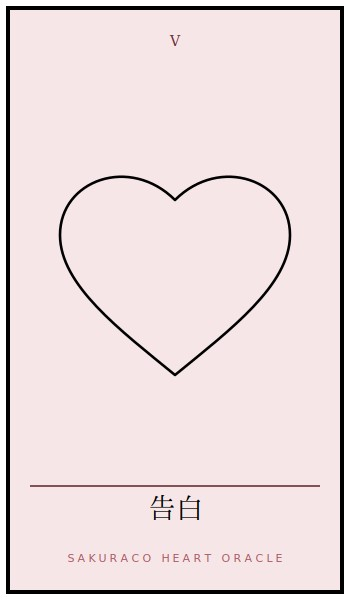
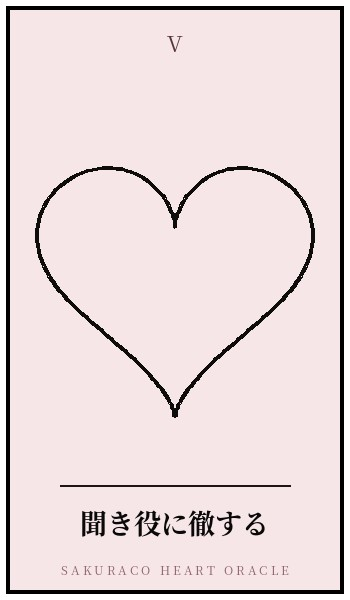
Heart Oracleを29枚に全面改訂：恋愛の物語系→今どう接するべきかの行動指針カードに路線変更（駆け引き系・謝る系を追加）

diff --git a/heart_oracle_cards.js b/heart_oracle_cards.js
@@ -1,1 +1,1 @@
-const HEART_ORACLE_CARDS = [{"id": "h01", "name_en": "", "name_jp": "出会いの予感", "deck": "heart_oracle", "keywords": ["予感", "新しい縁", "きっかけ"], "meaning": "新しい出会いの気配を感じるとき。まだ形になっていないけれど、何かが動き始めています。", "love": "出会いのチャンスが近づいているサイン。日常の中にヒントがあります。", "timing_term": "近い・1ヶ月以内", "timing_feature": "突然の出会い", "timing_place": "新しい環境や紹介の場", "img": "images_heart_oracle/h01.jpg"}, {"id": "h02", "name_en": "", "name_jp": "ときめき", "deck": "heart_oracle", "keywords": ["高揚感", "好意", "心の動き"], "meaning": "誰かに心惹かれ、胸が高鳴る瞬間。自分でも気づかなかった気持ちに気づくとき。", "love": "好きという気持ちが芽生え始めている、初々しい段階。", "timing_term": "数週間以内", "timing_feature": "気持ちが高まっていく", "timing_place": "共通の趣味や集まりの場", "img": "images_heart_oracle/h02.jpg"}, {"id": "h03", "name_en": "", "name_jp": "片思い", "deck": "heart_oracle", "keywords": ["秘めた想い", "切なさ", "見守る"], "meaning": "相手に気持ちを伝えられずにいる、静かな想い。", "love": "片思い中の複雑な気持ちを表すカード。焦らず育てる時期です。", "timing_term": "数ヶ月単位", "timing_feature": "じっくり育つ想い", "timing_place": "日常的に顔を合わせる場", "img": "images_heart_oracle/h03.jpg"}, {"id": "h04", "name_en": "", "name_jp": "迷い", "deck": "heart_oracle", "keywords": ["決断できない", "揺れる心", "選択"], "meaning": "気持ちが定まらず、揺れ動いている状態。", "love": "進むか退くか、決めきれない恋の局面。", "timing_term": "数週間〜数ヶ月", "timing_feature": "はっきりしない時期", "timing_place": "一人の時間の中で", "img": "images_heart_oracle/h04.jpg"}, {"id": "h05", "name_en": "", "name_jp": "告白", "deck": "heart_oracle", "keywords": ["勇気", "伝える", "決意"], "meaning": "気持ちを言葉にして伝える、勇気の瞬間。", "love": "告白のタイミングが近づいている、または背中を押されるとき。", "timing_term": "近い・数週間以内", "timing_feature": "勢いのある展開", "timing_place": "二人きりの場面", "img": "images_heart_oracle/h05.jpg"}, {"id": "h06", "name_en": "", "name_jp": "両想い", "deck": "heart_oracle", "keywords": ["通じ合う心", "幸福", "始まり"], "meaning": "お互いの気持ちが重なり合う、幸せな瞬間。", "love": "両想いの兆し、または実感できる嬉しい時期。", "timing_term": "近い・1ヶ月前後", "timing_feature": "嬉しい進展", "timing_place": "デートの場で", "img": "images_heart_oracle/h06.jpg"}, {"id": "h07", "name_en": "", "name_jp": "愛の深まり", "deck": "heart_oracle", "keywords": ["絆", "信頼", "育つ愛"], "meaning": "関係が少しずつ深まり、信頼が育っていく時期。", "love": "二人の関係がより親密に、安定していく段階。", "timing_term": "数ヶ月単位", "timing_feature": "ゆっくり深まる", "timing_place": "日常を共にする中で", "img": "images_heart_oracle/h07.jpg"}, {"id": "h08", "name_en": "", "name_jp": "すれ違い", "deck": "heart_oracle", "keywords": ["誤解", "距離", "ズレ"], "meaning": "気持ちがうまく噛み合わず、距離を感じる状態。", "love": "ちょっとしたズレが気になる時期。話し合いが鍵になります。", "timing_term": "数週間", "timing_feature": "一時的な停滞", "timing_place": "連絡のやり取りの中で", "img": "images_heart_oracle/h08.jpg"}, {"id": "h09", "name_en": "", "name_jp": "嫉妬", "deck": "heart_oracle", "keywords": ["不安", "独占欲", "比較"], "meaning": "相手を想うあまり、心がざわつく状態。", "love": "嫉妬や不安を感じやすい、心が揺れる時期。", "timing_term": "短期間", "timing_feature": "感情が高ぶる", "timing_place": "相手の周辺関係の中で", "img": "images_heart_oracle/h09.jpg"}, {"id": "h10", "name_en": "", "name_jp": "沈黙", "deck": "heart_oracle", "keywords": ["言葉にできない", "間", "静けさ"], "meaning": "言葉より、沈黙の方が雄弁なときもあります。", "love": "あえて何も言わない選択をしている時期。", "timing_term": "不明瞭・様子見", "timing_feature": "動きの少ない時期", "timing_place": "二人の間で", "img": "images_heart_oracle/h10.jpg"}, {"id": "h11", "name_en": "", "name_jp": "涙", "deck": "heart_oracle", "keywords": ["悲しみ", "解放", "浄化"], "meaning": "涙とともに、心の重荷が流れていく。", "love": "悲しみを経験しながらも、癒しに向かっている時期。", "timing_term": "短期集中", "timing_feature": "感情の解放", "timing_place": "一人の時間に", "img": "images_heart_oracle/h11.jpg"}, {"id": "h12", "name_en": "", "name_jp": "別れ", "deck": "heart_oracle", "keywords": ["終わり", "区切り", "手放す"], "meaning": "一つの関係に区切りがつく、大きな転換点。", "love": "別れという形での終わり、または覚悟を決める時期。", "timing_term": "大きな節目", "timing_feature": "突然または覚悟の末に", "timing_place": "直接顔を合わせる場で", "img": "images_heart_oracle/h12.jpg"}, {"id": "h13", "name_en": "", "name_jp": "未練", "deck": "heart_oracle", "keywords": ["執着", "思い出", "離れられない"], "meaning": "過去の関係に、まだ心が残っている状態。", "love": "過去の相手への未練が、今の気持ちに影響している時期。", "timing_term": "長引きやすい", "timing_feature": "ゆっくり薄れていく", "timing_place": "ふとした瞬間に思い出す", "img": "images_heart_oracle/h13.jpg"}, {"id": "h14", "name_en": "", "name_jp": "手放す勇気", "deck": "heart_oracle", "keywords": ["決断", "解放", "前進"], "meaning": "執着を手放し、次に進む決意をするとき。", "love": "過去を手放し、新しい気持ちで前を向ける時期。", "timing_term": "決意の瞬間", "timing_feature": "数週間で心が軽くなる", "timing_place": "一人静かな時間に", "img": "images_heart_oracle/h14.jpg"}, {"id": "h15", "name_en": "", "name_jp": "癒し", "deck": "heart_oracle", "keywords": ["回復", "安らぎ", "自分を労わる"], "meaning": "傷ついた心が、少しずつ癒えていく時期。", "love": "恋の傷を癒し、穏やかさを取り戻していく段階。", "timing_term": "ゆっくり・数ヶ月", "timing_feature": "少しずつ回復", "timing_place": "自分だけの時間の中で", "img": "images_heart_oracle/h15.jpg"}, {"id": "h16", "name_en": "", "name_jp": "自分を愛する", "deck": "heart_oracle", "keywords": ["セルフラブ", "自信", "満たされる"], "meaning": "誰かに求めるより先に、自分自身を大切にするとき。", "love": "自分を満たすことで、恋愛にも良い流れが生まれる時期。", "timing_term": "今この瞬間から", "timing_feature": "じわじわ効果が出る", "timing_place": "一人の時間や自分磨きの中で", "img": "images_heart_oracle/h16.jpg"}, {"id": "h17", "name_en": "", "name_jp": "新しい風", "deck": "heart_oracle", "keywords": ["変化", "新展開", "予感"], "meaning": "停滞していた状況に、新しい風が吹き込む。", "love": "新しい出会いや展開の気配。環境の変化が鍵になります。", "timing_term": "近い・1〜2ヶ月", "timing_feature": "急な変化", "timing_place": "新しい環境や場所で", "img": "images_heart_oracle/h17.jpg"}, {"id": "h18", "name_en": "", "name_jp": "再会", "deck": "heart_oracle", "keywords": ["巡り合わせ", "懐かしさ", "縁"], "meaning": "過去に縁のあった人と、再び巡り合う。", "love": "過去の相手との再会、または懐かしい縁がつながる時期。", "timing_term": "予想外のタイミング", "timing_feature": "突然訪れる", "timing_place": "共通の知人や思い出の場所で", "img": "images_heart_oracle/h18.jpg"}, {"id": "h19", "name_en": "", "name_jp": "復縁", "deck": "heart_oracle", "keywords": ["やり直し", "再スタート", "和解"], "meaning": "一度離れた関係が、もう一度動き出す。", "love": "復縁の可能性が高まっている、または話し合いのタイミング。", "timing_term": "数ヶ月単位", "timing_feature": "ゆっくり歩み寄る", "timing_place": "二人だけの再会の場で", "img": "images_heart_oracle/h19.jpg"}, {"id": "h20", "name_en": "", "name_jp": "信頼", "deck": "heart_oracle", "keywords": ["安心", "誠実", "積み重ね"], "meaning": "積み重ねてきた時間が、確かな信頼に変わる。", "love": "信頼関係が深まり、安心して向き合える時期。", "timing_term": "長期的に築かれる", "timing_feature": "着実に積み重なる", "timing_place": "日々のやり取りの中で", "img": "images_heart_oracle/h20.jpg"}, {"id": "h21", "name_en": "", "name_jp": "絆", "deck": "heart_oracle", "keywords": ["つながり", "支え合い", "一体感"], "meaning": "言葉にしなくても通じ合う、強いつながり。", "love": "かけがえのない絆を感じられる、満たされた時期。", "timing_term": "継続的・安定", "timing_feature": "静かに深まり続ける", "timing_place": "共に過ごす日常の中で", "img": "images_heart_oracle/h21.jpg"}, {"id": "h22", "name_en": "", "name_jp": "永遠の約束", "deck": "heart_oracle", "keywords": ["誓い", "結婚", "成就"], "meaning": "二人の未来を誓い合う、大きな成就の瞬間。", "love": "結婚や将来の約束など、恋愛の一つの完成形を示すカード。", "timing_term": "大きな節目・数ヶ月〜1年", "timing_feature": "特別な日に", "timing_place": "二人にとって特別な場所で", "img": "images_heart_oracle/h22.jpg"}];
+const HEART_ORACLE_CARDS = [{"id": "h01", "name_en": "", "name_jp": "見守る", "deck": "heart_oracle", "keywords": ["静けさ", "信頼", "見守る"], "meaning": "今は無理に動かず、相手のペースを尊重しながらそっと見守る時期。焦って踏み込むより、そばで支える姿勢が伝わるとき。", "love": "連絡の頻度を相手に合わせ、急かさずに構えて。「いつでもここにいるよ」という空気感を大切に。", "timing_term": "数週間〜数ヶ月", "timing_feature": "静かに信頼を積み重ねる時期", "timing_place": "日常のやり取りの中で", "img": "images_heart_oracle/h01.jpg"}, {"id": "h02", "name_en": "", "name_jp": "自分から動く", "deck": "heart_oracle", "keywords": ["行動", "勇気", "きっかけ"], "meaning": "待っているだけでは何も変わらない。今は自分から一歩踏み出すことで、流れが動き出すとき。", "love": "連絡や誘いは待たずにこちらから。小さな行動が次の展開のきっかけになります。", "timing_term": "近い・1〜2週間以内", "timing_feature": "動いた分だけ反応が返ってくる", "timing_place": "LINEやメッセージのやり取りで", "img": "images_heart_oracle/h02.jpg"}, {"id": "h03", "name_en": "", "name_jp": "距離を置く", "deck": "heart_oracle", "keywords": ["余白", "冷静さ", "間"], "meaning": "近づきすぎた気持ちに、少し余白をつくる時期。距離を置くことでお互いに冷静さを取り戻せます。", "love": "連絡の頻度を少し落とし、自分の時間を優先してみて。焦らず様子を見る余裕を持って。", "timing_term": "数週間程度", "timing_feature": "一時的なクールダウン", "timing_place": "一人の時間の中で", "img": "images_heart_oracle/h03.jpg"}, {"id": "h04", "name_en": "", "name_jp": "素直に伝える", "deck": "heart_oracle", "keywords": ["正直さ", "言葉", "誠実"], "meaning": "駆け引きより、素直な言葉が一番届くとき。飾らない気持ちが相手の心に真っ直ぐ届きます。", "love": "「嬉しい」「寂しい」など、今感じていることをそのまま言葉にして伝えてみて。", "timing_term": "近い・数日〜数週間以内", "timing_feature": "素直さが伝わりやすい流れ", "timing_place": "二人で話せる場面で", "img": "images_heart_oracle/h04.jpg"}, {"id": "h05", "name_en": "", "name_jp": "聞き役に徹する", "deck": "heart_oracle", "keywords": ["傾聴", "受け止める", "余裕"], "meaning": "自分の気持ちを話すより、まず相手の話にしっかり耳を傾けるべきとき。", "love": "相手の話を遮らず、最後まで聞いて。共感の相槌ひとつで距離がぐっと縮まります。", "timing_term": "数日〜数週間", "timing_feature": "相手が心を開き始める", "timing_place": "ゆっくり話せる時間の中で", "img": "images_heart_oracle/h05.jpg"}, {"id": "h06", "name_en": "", "name_jp": "笑顔で接する", "deck": "heart_oracle", "keywords": ["明るさ", "安心感", "雰囲気"], "meaning": "深刻にならず、明るい笑顔で接することが今の二人には必要。空気が軽くなることで関係もほぐれていきます。", "love": "会うときは笑顔を意識して。ちょっとした冗談や軽やかな会話が距離を縮めます。", "timing_term": "すぐに・日常の中で", "timing_feature": "空気が軽くなる", "timing_place": "会って話す場で", "img": "images_heart_oracle/h06.jpg"}, {"id": "h07", "name_en": "", "name_jp": "誘ってみる", "deck": "heart_oracle", "keywords": ["誘い", "積極性", "チャンス"], "meaning": "迷っている時間がもったいないほど、良い流れが来ているとき。思い切って誘うことで進展します。", "love": "食事やお出かけなど、具体的な予定を提案してみて。断られる不安より動いた先の結果を大切に。", "timing_term": "近い・1〜2週間以内", "timing_feature": "誘えば応じてもらいやすい", "timing_place": "メッセージまたは直接", "img": "images_heart_oracle/h07.jpg"}, {"id": "h08", "name_en": "", "name_jp": "慎重に進める", "deck": "heart_oracle", "keywords": ["丁寧さ", "確認", "歩み"], "meaning": "勢いだけで進めず、一歩ずつ相手の気持ちを確かめながら進むべきとき。", "love": "大きな決断や告白は少し待って、まず小さな約束や積み重ねを大事にして。", "timing_term": "数ヶ月単位", "timing_feature": "ゆっくり着実に進む", "timing_place": "日々の関わりの中で", "img": "images_heart_oracle/h08.jpg"}, {"id": "h09", "name_en": "", "name_jp": "思い切って告白する", "deck": "heart_oracle", "keywords": ["決断", "勇気", "気持ち"], "meaning": "気持ちを胸に秘めている段階を越え、言葉にして伝える決断のとき。", "love": "タイミングを計りすぎず、素直な気持ちをまっすぐ伝えてみて。", "timing_term": "近い・数週間以内", "timing_feature": "勢いのある展開に", "timing_place": "二人きりの場面で", "img": "images_heart_oracle/h09.jpg"}, {"id": "h10", "name_en": "", "name_jp": "謝る勇気を持つ", "deck": "heart_oracle", "keywords": ["素直さ", "反省", "歩み寄り"], "meaning": "意地を張らず、素直に「ごめんね」と伝えることで関係がほぐれていくとき。", "love": "言い訳をせず、まず謝ることから始めて。相手の気持ちを認める姿勢が大切です。", "timing_term": "できるだけ早く", "timing_feature": "早いほど関係が回復しやすい", "timing_place": "落ち着いて話せる場で", "img": "images_heart_oracle/h10.jpg"}, {"id": "h11", "name_en": "", "name_jp": "頼ってみる", "deck": "heart_oracle", "keywords": ["弱さ", "信頼", "甘え"], "meaning": "一人で抱え込まず、相手に頼ってみることで心の距離が縮まるとき。", "love": "「助けてほしい」「相談したい」と素直に伝えてみて。頼られることは相手にとっても嬉しいことです。", "timing_term": "数日〜数週間", "timing_feature": "頼るほど距離が縮む", "timing_place": "困りごとを共有できる場面で", "img": "images_heart_oracle/h11.jpg"}, {"id": "h12", "name_en": "", "name_jp": "任せてみる", "deck": "heart_oracle", "keywords": ["信頼", "委ねる", "余裕"], "meaning": "自分でコントロールしようとせず、相手のペースや判断に委ねてみるとき。", "love": "予定や決め事を相手に任せてみて。「あなたに任せるね」の一言が信頼を伝えます。", "timing_term": "数週間〜数ヶ月", "timing_feature": "相手が主導権を持つ流れ", "timing_place": "二人で決める場面で", "img": "images_heart_oracle/h12.jpg"}, {"id": "h13", "name_en": "", "name_jp": "褒め言葉を伝える", "deck": "heart_oracle", "keywords": ["承認", "言葉", "好意"], "meaning": "相手の良いところを見つけて、素直に言葉にして伝えるべきとき。", "love": "些細なことでも「すごいね」「素敵だね」と口に出してみて。承認の言葉が好意のサインになります。", "timing_term": "すぐに・日常の中で", "timing_feature": "言葉にした分だけ好印象に", "timing_place": "会話の中で自然に", "img": "images_heart_oracle/h13.jpg"}, {"id": "h14", "name_en": "", "name_jp": "感謝を伝える", "deck": "heart_oracle", "keywords": ["ありがとう", "誠実", "積み重ね"], "meaning": "当たり前になっていることほど、「ありがとう」を言葉にすることが大切なとき。", "love": "小さなことでも感謝を言葉にして伝えて。積み重ねが信頼関係を深めます。", "timing_term": "すぐに・日常の中で", "timing_feature": "積み重ねが信頼に変わる", "timing_place": "日々のやり取りの中で", "img": "images_heart_oracle/h14.jpg"}, {"id": "h15", "name_en": "", "name_jp": "変化を見せる", "deck": "heart_oracle", "keywords": ["イメチェン", "新鮮さ", "刺激"], "meaning": "停滞している雰囲気に、新しい一面や変化を見せることで刺激を与えるとき。", "love": "髪型やファッション、雰囲気を少し変えてみて。新鮮さが相手の関心を引き戻します。", "timing_term": "近い・1ヶ月以内", "timing_feature": "変化が反応を生む", "timing_place": "次に会うタイミングで", "img": "images_heart_oracle/h15.jpg"}, {"id": "h16", "name_en": "", "name_jp": "二人の時間をつくる", "deck": "heart_oracle", "keywords": ["共有", "体験", "絆"], "meaning": "言葉より、共に過ごす時間そのものが二人の距離を縮めるとき。", "love": "食事や趣味など、共通の体験を意識して予定を組んでみて。", "timing_term": "近い・1〜2週間以内", "timing_feature": "共有体験が絆を深める", "timing_place": "二人で過ごす時間の中で", "img": "images_heart_oracle/h16.jpg"}, {"id": "h17", "name_en": "", "name_jp": "一歩引いてみる", "deck": "heart_oracle", "keywords": ["抑制", "様子見", "冷静"], "meaning": "気持ちが先走りそうなときは、あえて一歩引いて様子を見るべきとき。", "love": "すぐに反応せず、少し間を置いてから返信や行動をして。冷静さが良い距離感を保ちます。", "timing_term": "数日〜数週間", "timing_feature": "抑えた分だけ関係が安定", "timing_place": "連絡のやり取りの中で", "img": "images_heart_oracle/h17.jpg"}, {"id": "h18", "name_en": "", "name_jp": "正直に話し合う", "deck": "heart_oracle", "keywords": ["対話", "率直さ", "解決"], "meaning": "ごまかしたり我慢したりせず、率直に気持ちを話し合うべきとき。", "love": "不満やモヤモヤを溜め込まず、落ち着いたタイミングで正直に伝えて。", "timing_term": "できるだけ早く", "timing_feature": "話し合うほどすれ違いが解消", "timing_place": "二人だけで話せる場で", "img": "images_heart_oracle/h18.jpg"}, {"id": "h19", "name_en": "", "name_jp": "信じて待つ", "deck": "heart_oracle", "keywords": ["信頼", "忍耐", "安心"], "meaning": "今は動くより、相手を信じてじっくり待つべき時期。", "love": "不安になっても連絡を急かさず、相手のタイミングを信じて構えて。", "timing_term": "数ヶ月単位", "timing_feature": "待つほど関係が安定", "timing_place": "日常の中で自然に", "img": "images_heart_oracle/h19.jpg"}, {"id": "h20", "name_en": "", "name_jp": "そっと寄り添う", "deck": "heart_oracle", "keywords": ["寄り添い", "静けさ", "支え"], "meaning": "言葉で励ますより、ただそばにいることが今の相手には必要なとき。", "love": "無理に元気づけようとせず、静かにそばにいて。存在そのものが支えになります。", "timing_term": "すぐに・今この時期", "timing_feature": "静かな支えが伝わる", "timing_place": "そばにいられる場面で", "img": "images_heart_oracle/h20.jpg"}, {"id": "h21", "name_en": "", "name_jp": "手放す勇気を持つ", "deck": "heart_oracle", "keywords": ["決断", "解放", "前進"], "meaning": "執着や過去の関係に区切りをつけ、次に進む決断をするとき。", "love": "未練を断ち切る行動を取って。連絡先の整理や気持ちの区切りをつける時間を持ちましょう。", "timing_term": "決意の瞬間から数週間", "timing_feature": "手放した分だけ心が軽くなる", "timing_place": "一人静かな時間に", "img": "images_heart_oracle/h21.jpg"}, {"id": "h22", "name_en": "", "name_jp": "自分を大切にする", "deck": "heart_oracle", "keywords": ["セルフラブ", "自信", "満たす"], "meaning": "相手に求める前に、まず自分自身を満たし大切にするべきとき。", "love": "自分磨きや一人の時間を優先して。満たされた自分でいることが良い縁を引き寄せます。", "timing_term": "今この瞬間から", "timing_feature": "じわじわ良い流れに変わる", "timing_place": "自分だけの時間の中で", "img": "images_heart_oracle/h22.jpg"}, {"id": "h23", "name_en": "", "name_jp": "じらしてみる", "deck": "heart_oracle", "keywords": ["駆け引き", "焦らし", "余韻"], "meaning": "すぐに応じず、少し焦らすことで相手の気持ちを引き寄せる駆け引きの時期。", "love": "返信を少し間隔をあけてみる、誘いにすぐ乗らないなど、あえて余韻を残す行動を。", "timing_term": "数日〜1週間程度", "timing_feature": "焦らすほど関心が高まる", "timing_place": "メッセージのやり取りで", "img": "images_heart_oracle/h23.jpg"}, {"id": "h24", "name_en": "", "name_jp": "素っ気なくしてみる", "deck": "heart_oracle", "keywords": ["駆け引き", "主導権", "余裕"], "meaning": "追いかけるより、少し素っ気なく振る舞うことで相手が追う側に回る時期。", "love": "過度な連絡や気遣いを控えめにし、自分のペースを優先する余裕を見せて。", "timing_term": "数週間程度", "timing_feature": "相手の関心が高まりやすい", "timing_place": "普段のやり取りの中で", "img": "images_heart_oracle/h24.jpg"}, {"id": "h25", "name_en": "", "name_jp": "それとなく匂わせる", "deck": "heart_oracle", "keywords": ["駆け引き", "暗示", "さりげなさ"], "meaning": "はっきり言葉にせず、それとなく気持ちをほのめかすことが効果的なとき。", "love": "直接的な告白ではなく、態度や会話の端々で好意をさりげなく感じさせて。", "timing_term": "数週間単位", "timing_feature": "じわじわ伝わっていく", "timing_place": "何気ない会話の中で", "img": "images_heart_oracle/h25.jpg"}, {"id": "h26", "name_en": "", "name_jp": "主導権を握る", "deck": "heart_oracle", "keywords": ["駆け引き", "リード", "自信"], "meaning": "相手に流されるのではなく、自分から流れをリードしていくべきとき。", "love": "予定を提案する、会話の話題を作るなど、自信を持って関係をリードしてみて。", "timing_term": "近い・1〜2週間以内", "timing_feature": "リードした分だけ流れが動く", "timing_place": "デートや会話の場面で", "img": "images_heart_oracle/h26.jpg"}, {"id": "h27", "name_en": "", "name_jp": "嫉妬心をくすぐる", "deck": "heart_oracle", "keywords": ["駆け引き", "嫉妬", "刺激"], "meaning": "少し刺激を与えることで、相手が自分の気持ちに気づく後押しになるとき。", "love": "他の予定や交友関係を軽く話題にしてみて。やりすぎず、さりげない程度に留めるのがポイントです。", "timing_term": "数日〜1週間程度", "timing_feature": "相手の気持ちが動きやすい", "timing_place": "何気ない会話の中で", "img": "images_heart_oracle/h27.jpg"}, {"id": "h28", "name_en": "", "name_jp": "行動で示して謝る", "deck": "heart_oracle", "keywords": ["誠意", "行動", "信頼回復"], "meaning": "言葉での謝罪だけでなく、行動や態度で誠意を示すべきとき。", "love": "謝罪の言葉に加えて、約束を守る・態度を改めるなど具体的な行動で示して。", "timing_term": "できるだけ早く、継続的に", "timing_feature": "行動が伴うほど信頼が回復", "timing_place": "日々の関わりの中で", "img": "images_heart_oracle/h28.jpg"}, {"id": "h29", "name_en": "", "name_jp": "タイミングを待って謝る", "deck": "heart_oracle", "keywords": ["間合い", "冷静さ", "誠実"], "meaning": "すぐに謝るより、相手の気持ちが落ち着くのを待ってから謝罪するべきとき。", "love": "感情的になっている間は無理に話しかけず、落ち着いたタイミングを見計らって謝って。", "timing_term": "数日〜1週間程度", "timing_feature": "間を置くことで受け入れられやすい", "timing_place": "落ち着いて話せる場で", "img": "images_heart_oracle/h29.jpg"}];

diff --git a/app.js b/app.js
@@ -240,7 +240,7 @@ function openModal(c) {
     document.getElementById("mUp").textContent = c.meaning;
     document.getElementById("mRvSec").style.display = "none";
     document.getElementById("mLoveSec").style.display = "block";
-    document.getElementById("mLoveLabel").textContent = c.deck === "step_oracle" ? "後押しのひとこと" : "恋愛での視点";
+    document.getElementById("mLoveLabel").textContent = c.deck === "step_oracle" ? "後押しのひとこと" : c.deck === "heart_oracle" ? "今のアプローチ" : "恋愛での視点";
     document.getElementById("mLove").textContent = c.love;
     modalBackdrop.classList.remove("hidden");
     return;
@@ -429,7 +429,7 @@ document.getElementById("deckBack").addEventListener("click", function () {
       document.getElementById("rTitle").textContent = drawnCard.name_jp;
       document.getElementById("rMeaningSec").style.display = "block";
       document.getElementById("rLoveSec").style.display = "block";
-      document.getElementById("rLoveLabel").textContent = currentDeck === "step_oracle" ? "後押しのひとこと" : "恋愛での視点";
+      document.getElementById("rLoveLabel").textContent = currentDeck === "step_oracle" ? "後押しのひとこと" : currentDeck === "heart_oracle" ? "今のアプローチ" : "恋愛での視点";
       const hasTiming = currentDeck === "heart_oracle";
       document.getElementById("rTimingTermSec").style.display = hasTiming ? "block" : "none";
       document.getElementById("rTimingFeatureSec").style.display = hasTiming ? "block" : "none";

diff --git a/index.html b/index.html
@@ -482,7 +482,7 @@
         <div class="chip" data-deck="marseille">タロット（マルセイユ）（78）</div>
         <div class="chip" data-deck="lenormand">ルノルマン（36）</div>
         <div class="chip" data-deck="rune">ルーン（24）</div>
-        <div class="chip" data-deck="heart_oracle">Heart Oracle（22）</div>
+        <div class="chip" data-deck="heart_oracle">Heart Oracle（29）</div>
         <div class="chip" data-deck="step_oracle">Step Oracle（22）</div>
       </div>
       <div class="chiprow" id="chipRow">
